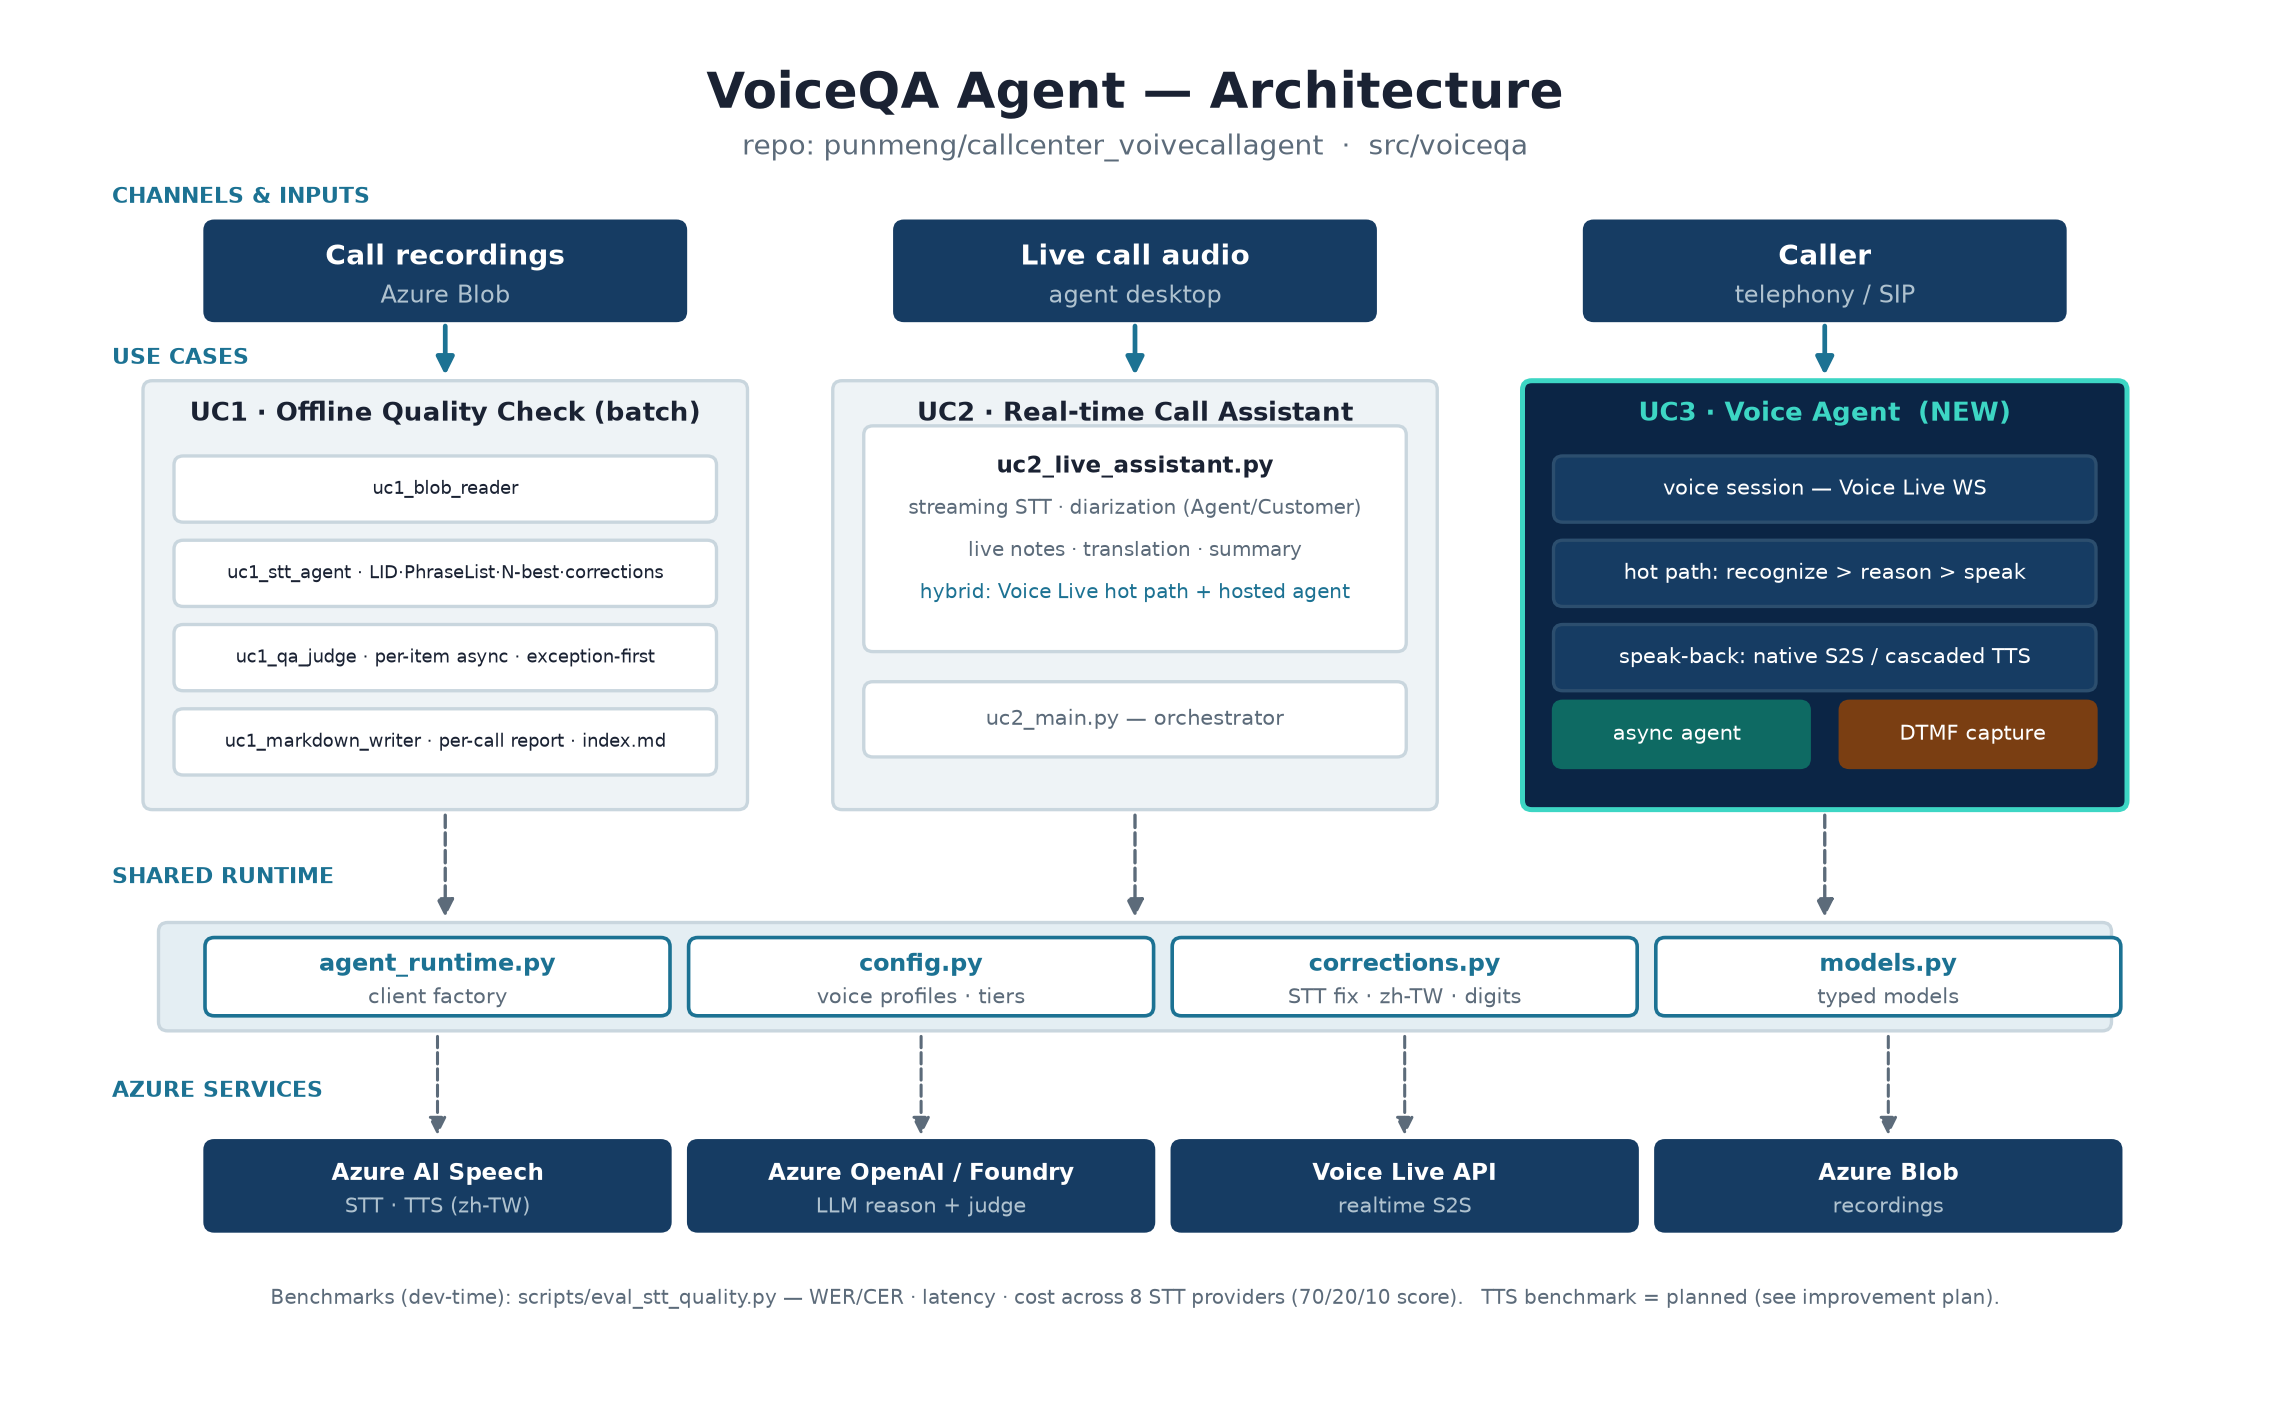
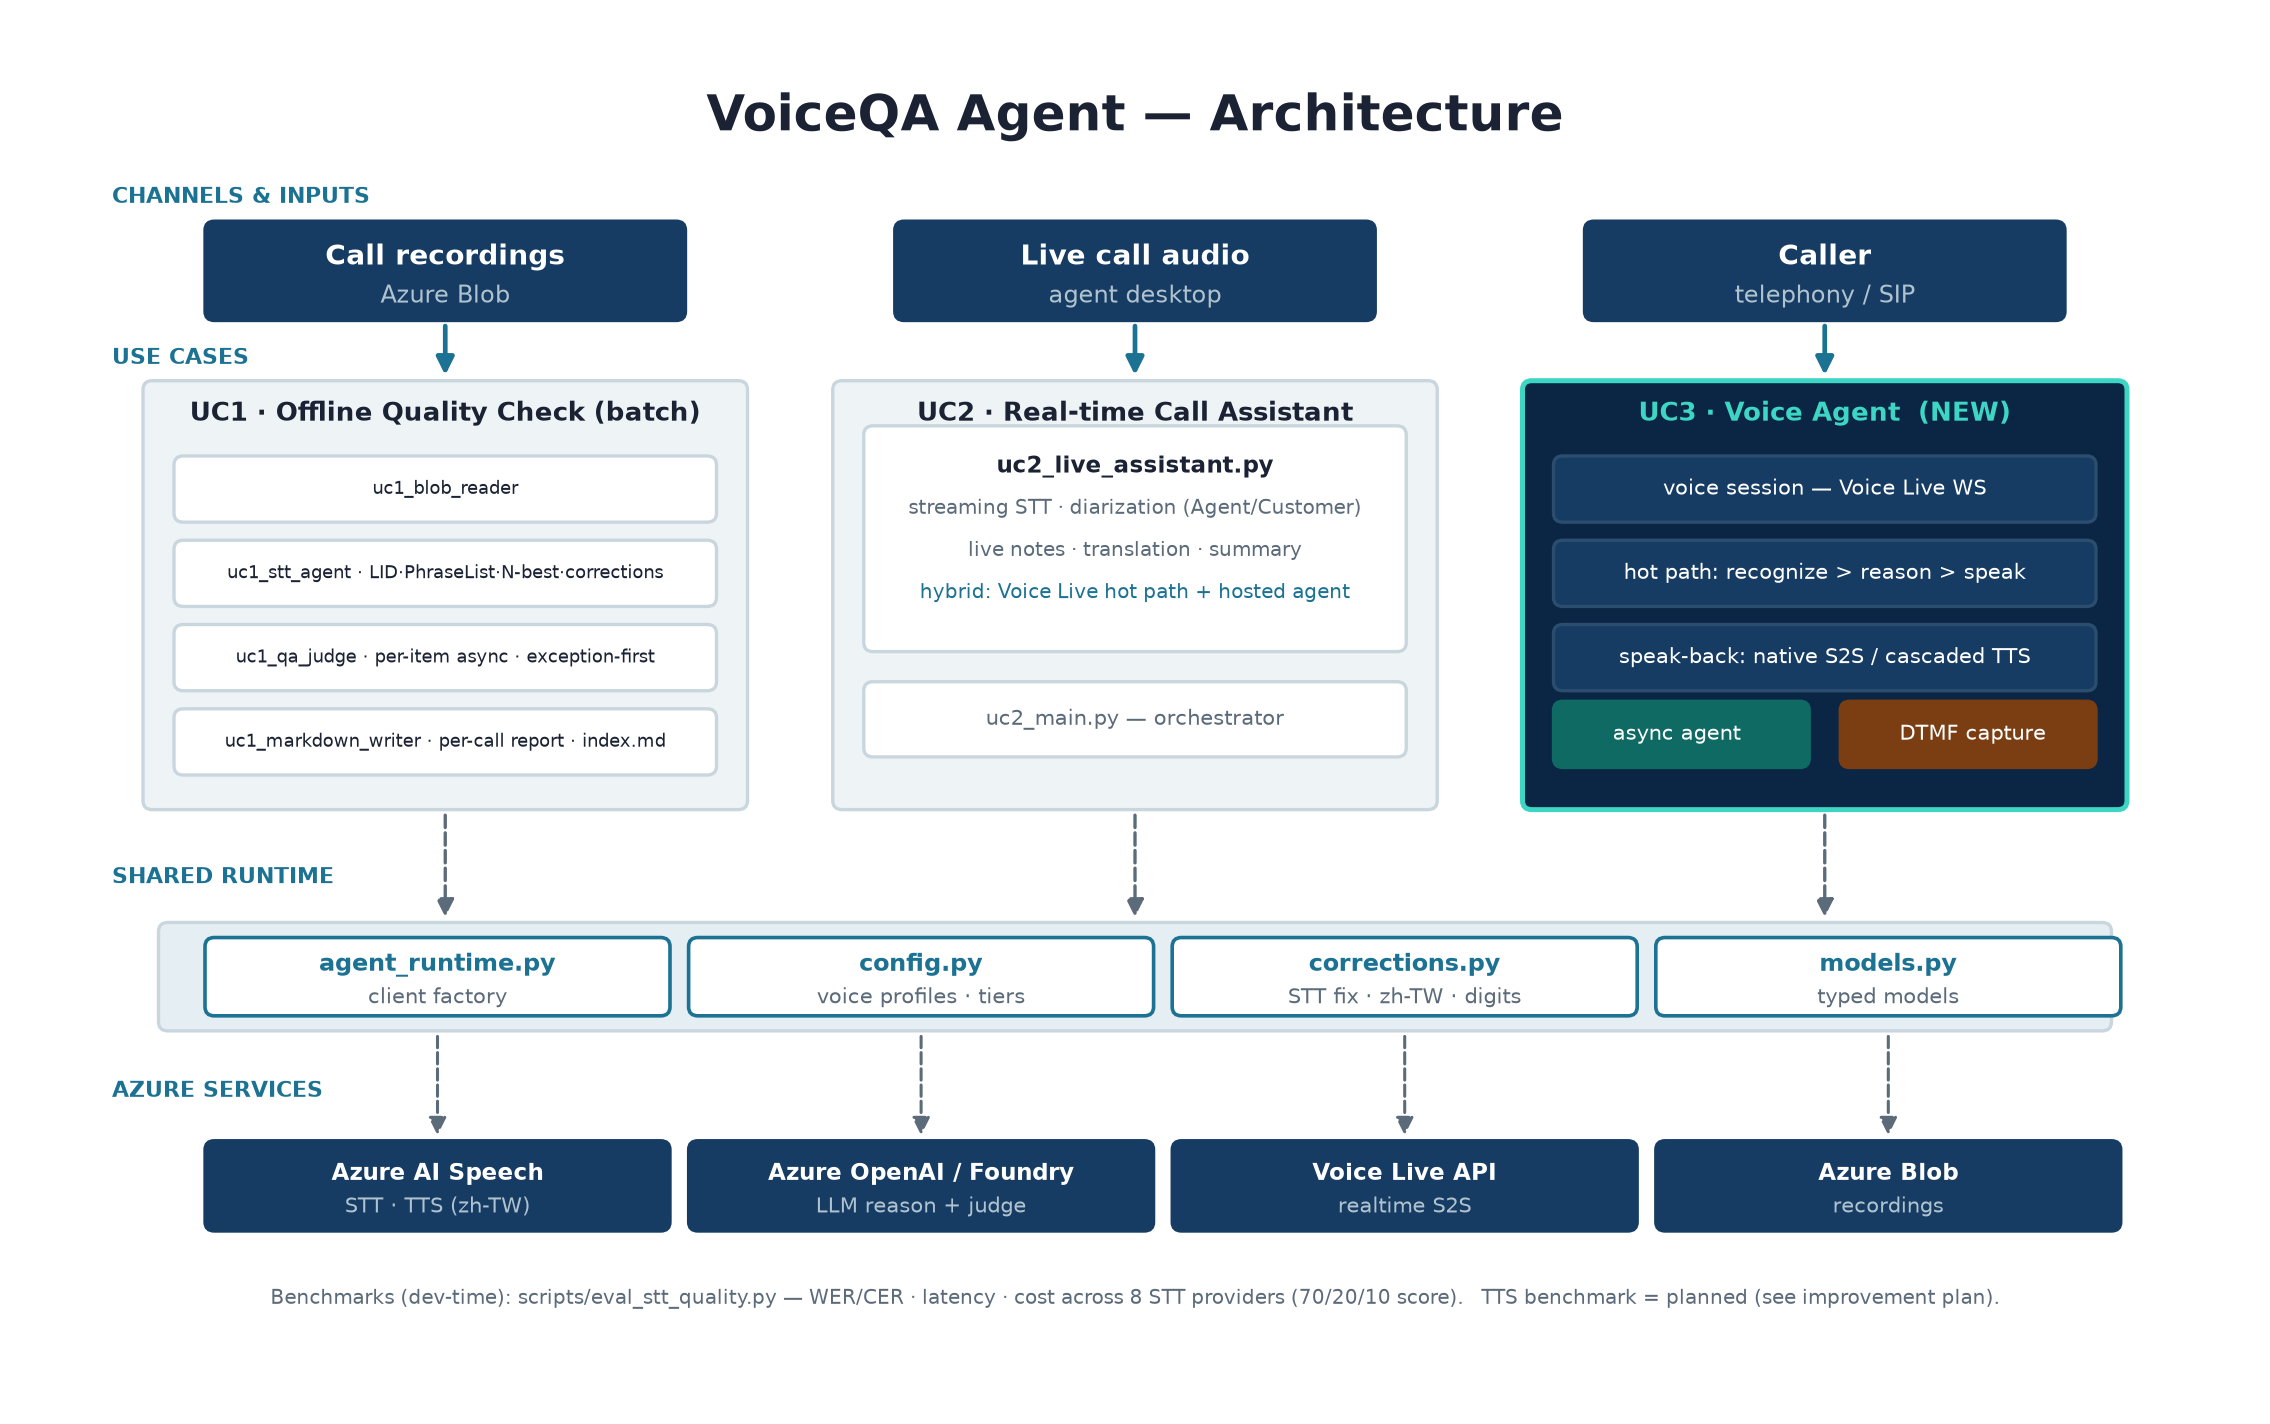
Update architecture visuals and improvement plan

Changed region(s): [[0.3084, 0.0309, 0.7093, 0.1236]]

diff --git a/spec/IMPROVEMENT_PLAN.md b/spec/IMPROVEMENT_PLAN.md
@@ -90,3 +90,9 @@ Suggested filename in repo: `docs/P17_IMPROVEMENT_PLAN.md`. New benchmark doc su
 | **Wave 3 (P2)** | UC1 cost/dashboard · UC2 transport resilience · UC3 KB/templated · STT bucket enforcement |
 
 **North-star metrics:** UC1 judge–human agreement · UC2 sub-second hot-path latency · UC3 NG-1/2/3 gate pass + task success · STT digit/code-switch accuracy · TTS MOS ≥ 4.0 with NG gates green.
+
+---
+
+## Reference
+
+STT/TTS tuning items above (phrase list, N-best analysis, correction logic, Custom Speech decision, custom lexicon) follow Microsoft's ISE Developer Blog, *Tuning and Optimization of STT, TTS, and Custom Keyword Recognition in Azure Speech Services* (2025-10-31): https://devblogs.microsoft.com/ise/azure-speech-to-text-optimization/. Notable: the built-in word-level **Corrections** feature is **en-US only** — for zh-TW the repo's `assets/corrections.json` data plus `src/voiceqa/corrections.py` post-processor is the right approach; Custom Speech (zh-TW supported) accepts audio+labeled transcripts, plain/structured text, and pronunciation data; custom lexicons are PLS 1.0 XML (≤100 KB, ~15-min cache).

diff --git a/docs/ARCHITECTURE.md b/docs/ARCHITECTURE.md
@@ -68,7 +68,7 @@ One-liner mapping: Azure Speech = voice components · GPT-4o Realtime = real-tim
 1. **Continuous LID** for `zh-TW` + `en-US` code-switching (always on).
 2. **Phrase List** — boost brand names, product codes, jargon.
 3. **Detailed output + N-best capture** — feeds the corrector, surfaces alternates.
-4. **`corrections.json`** — deterministic post-STT string replacement.
+4. **`assets/corrections.json` + `src/voiceqa/corrections.py`** — deterministic post-STT string replacement.
 5. **Custom Speech model** — last resort; requires labeled audio.
 
 ### QA judging strategy